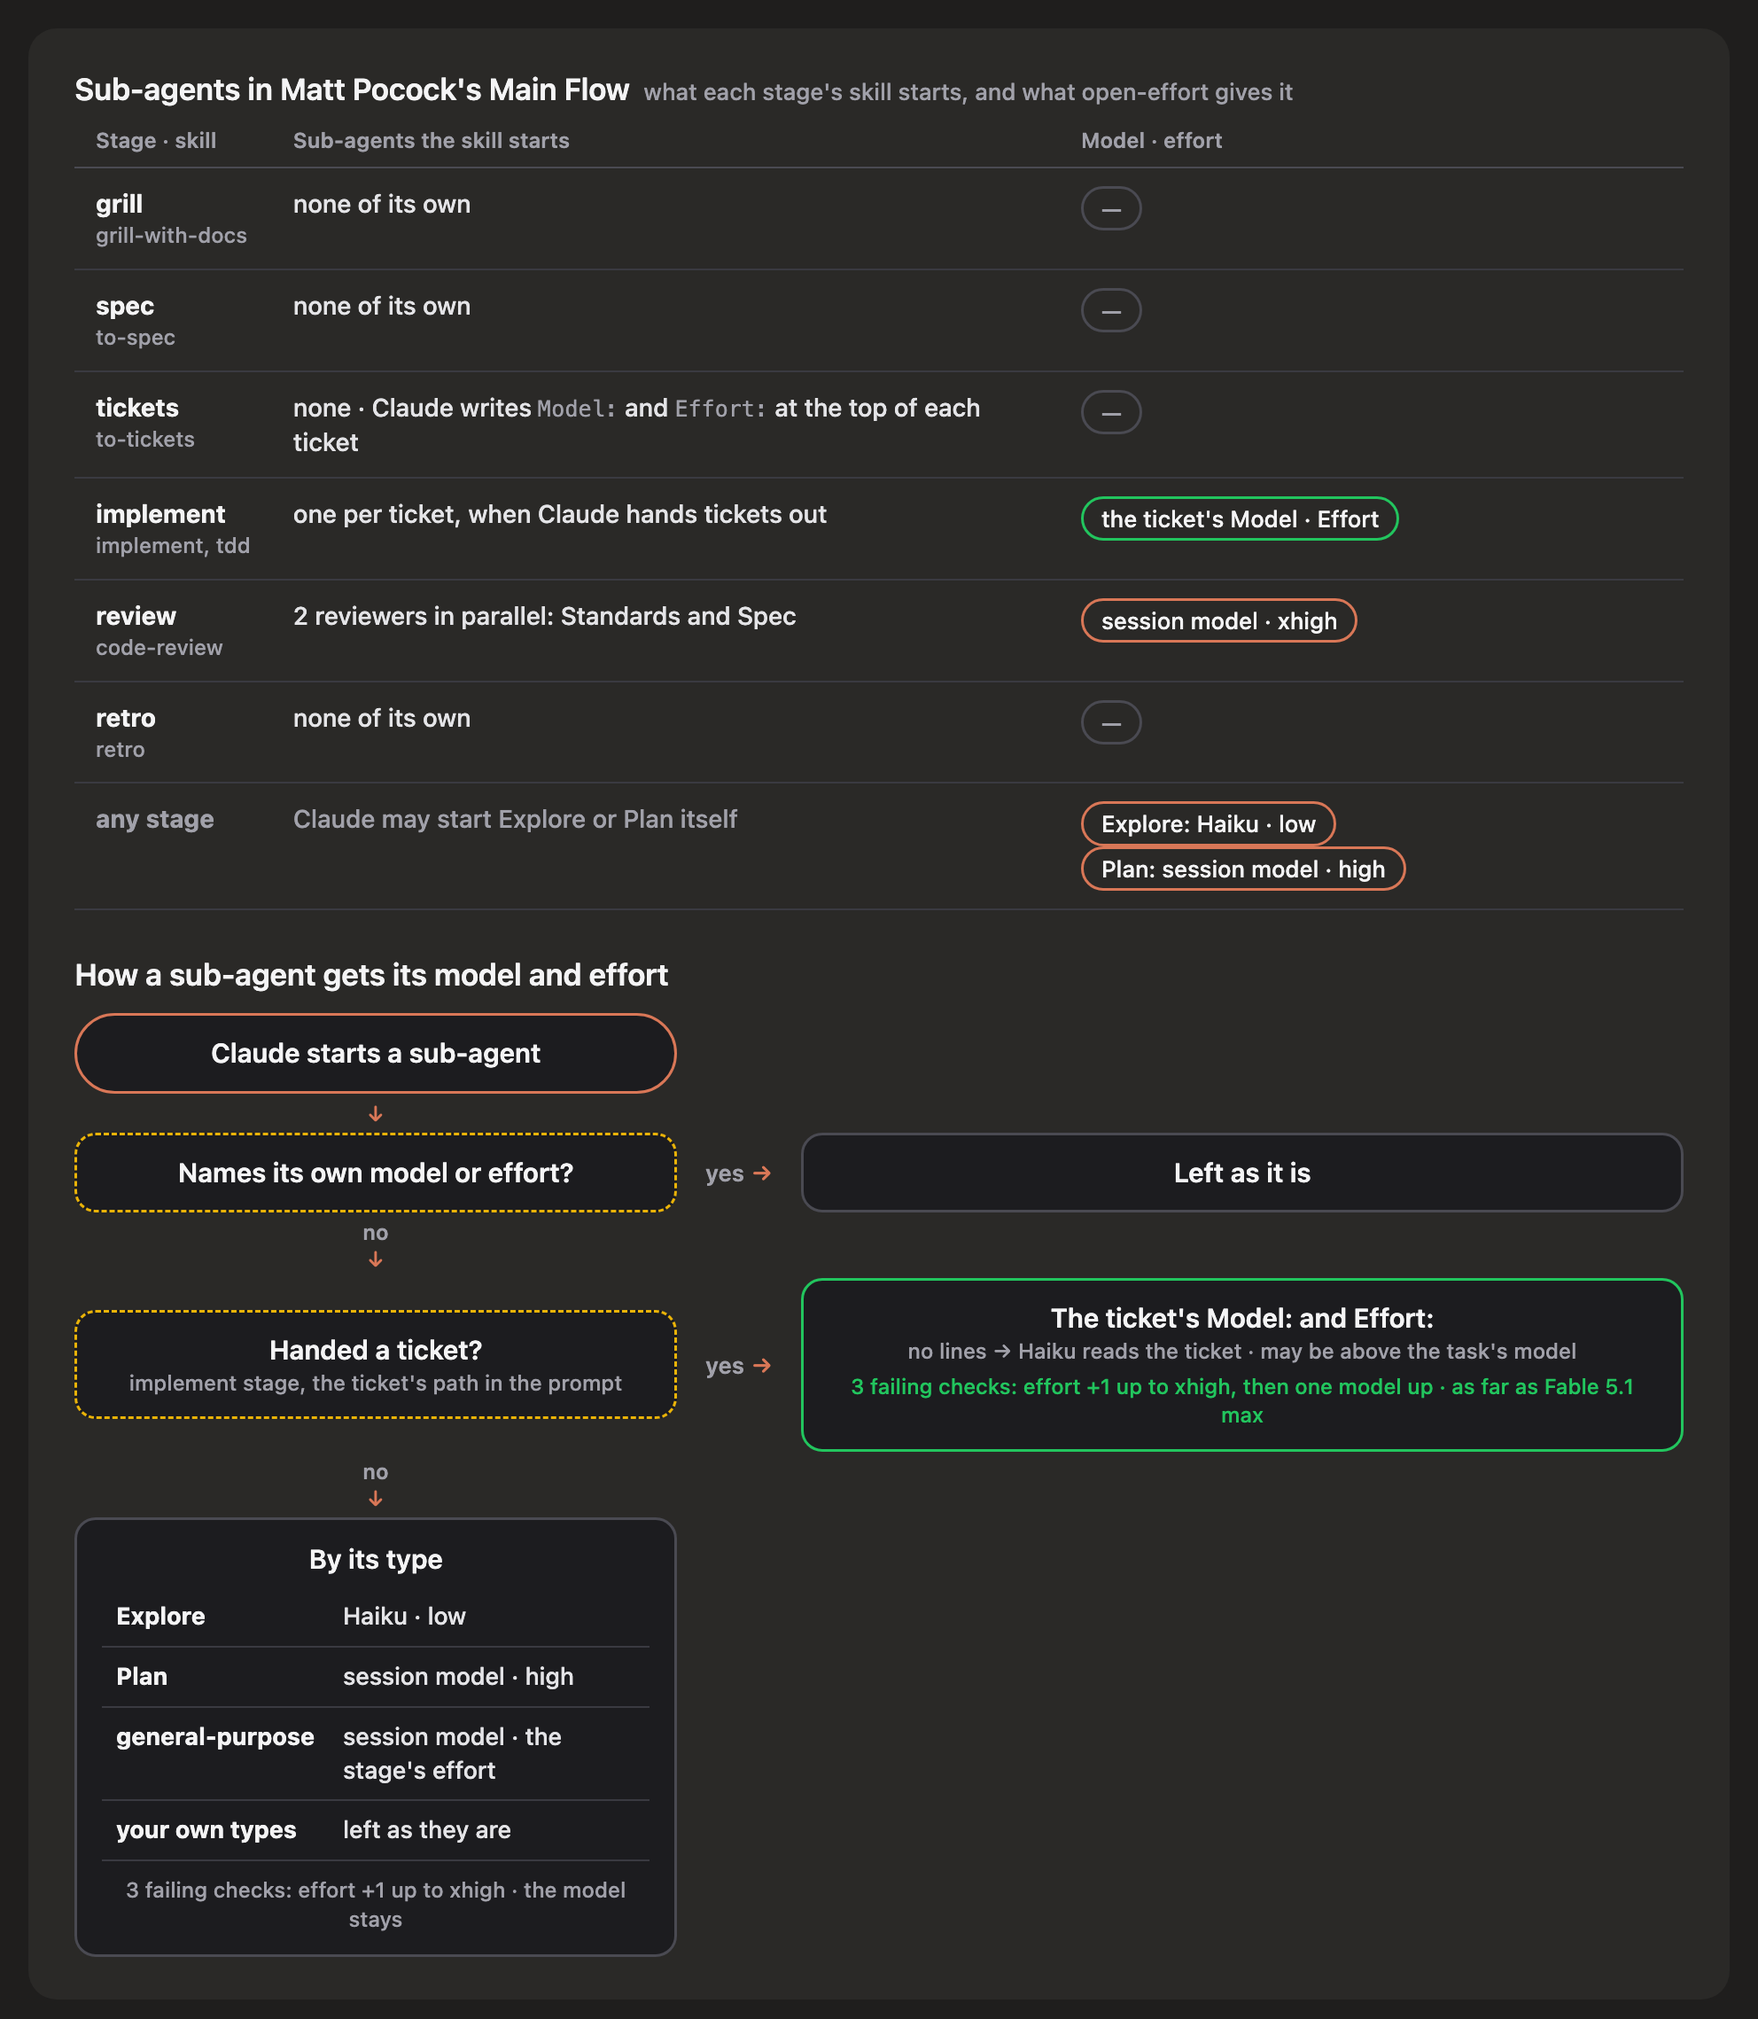
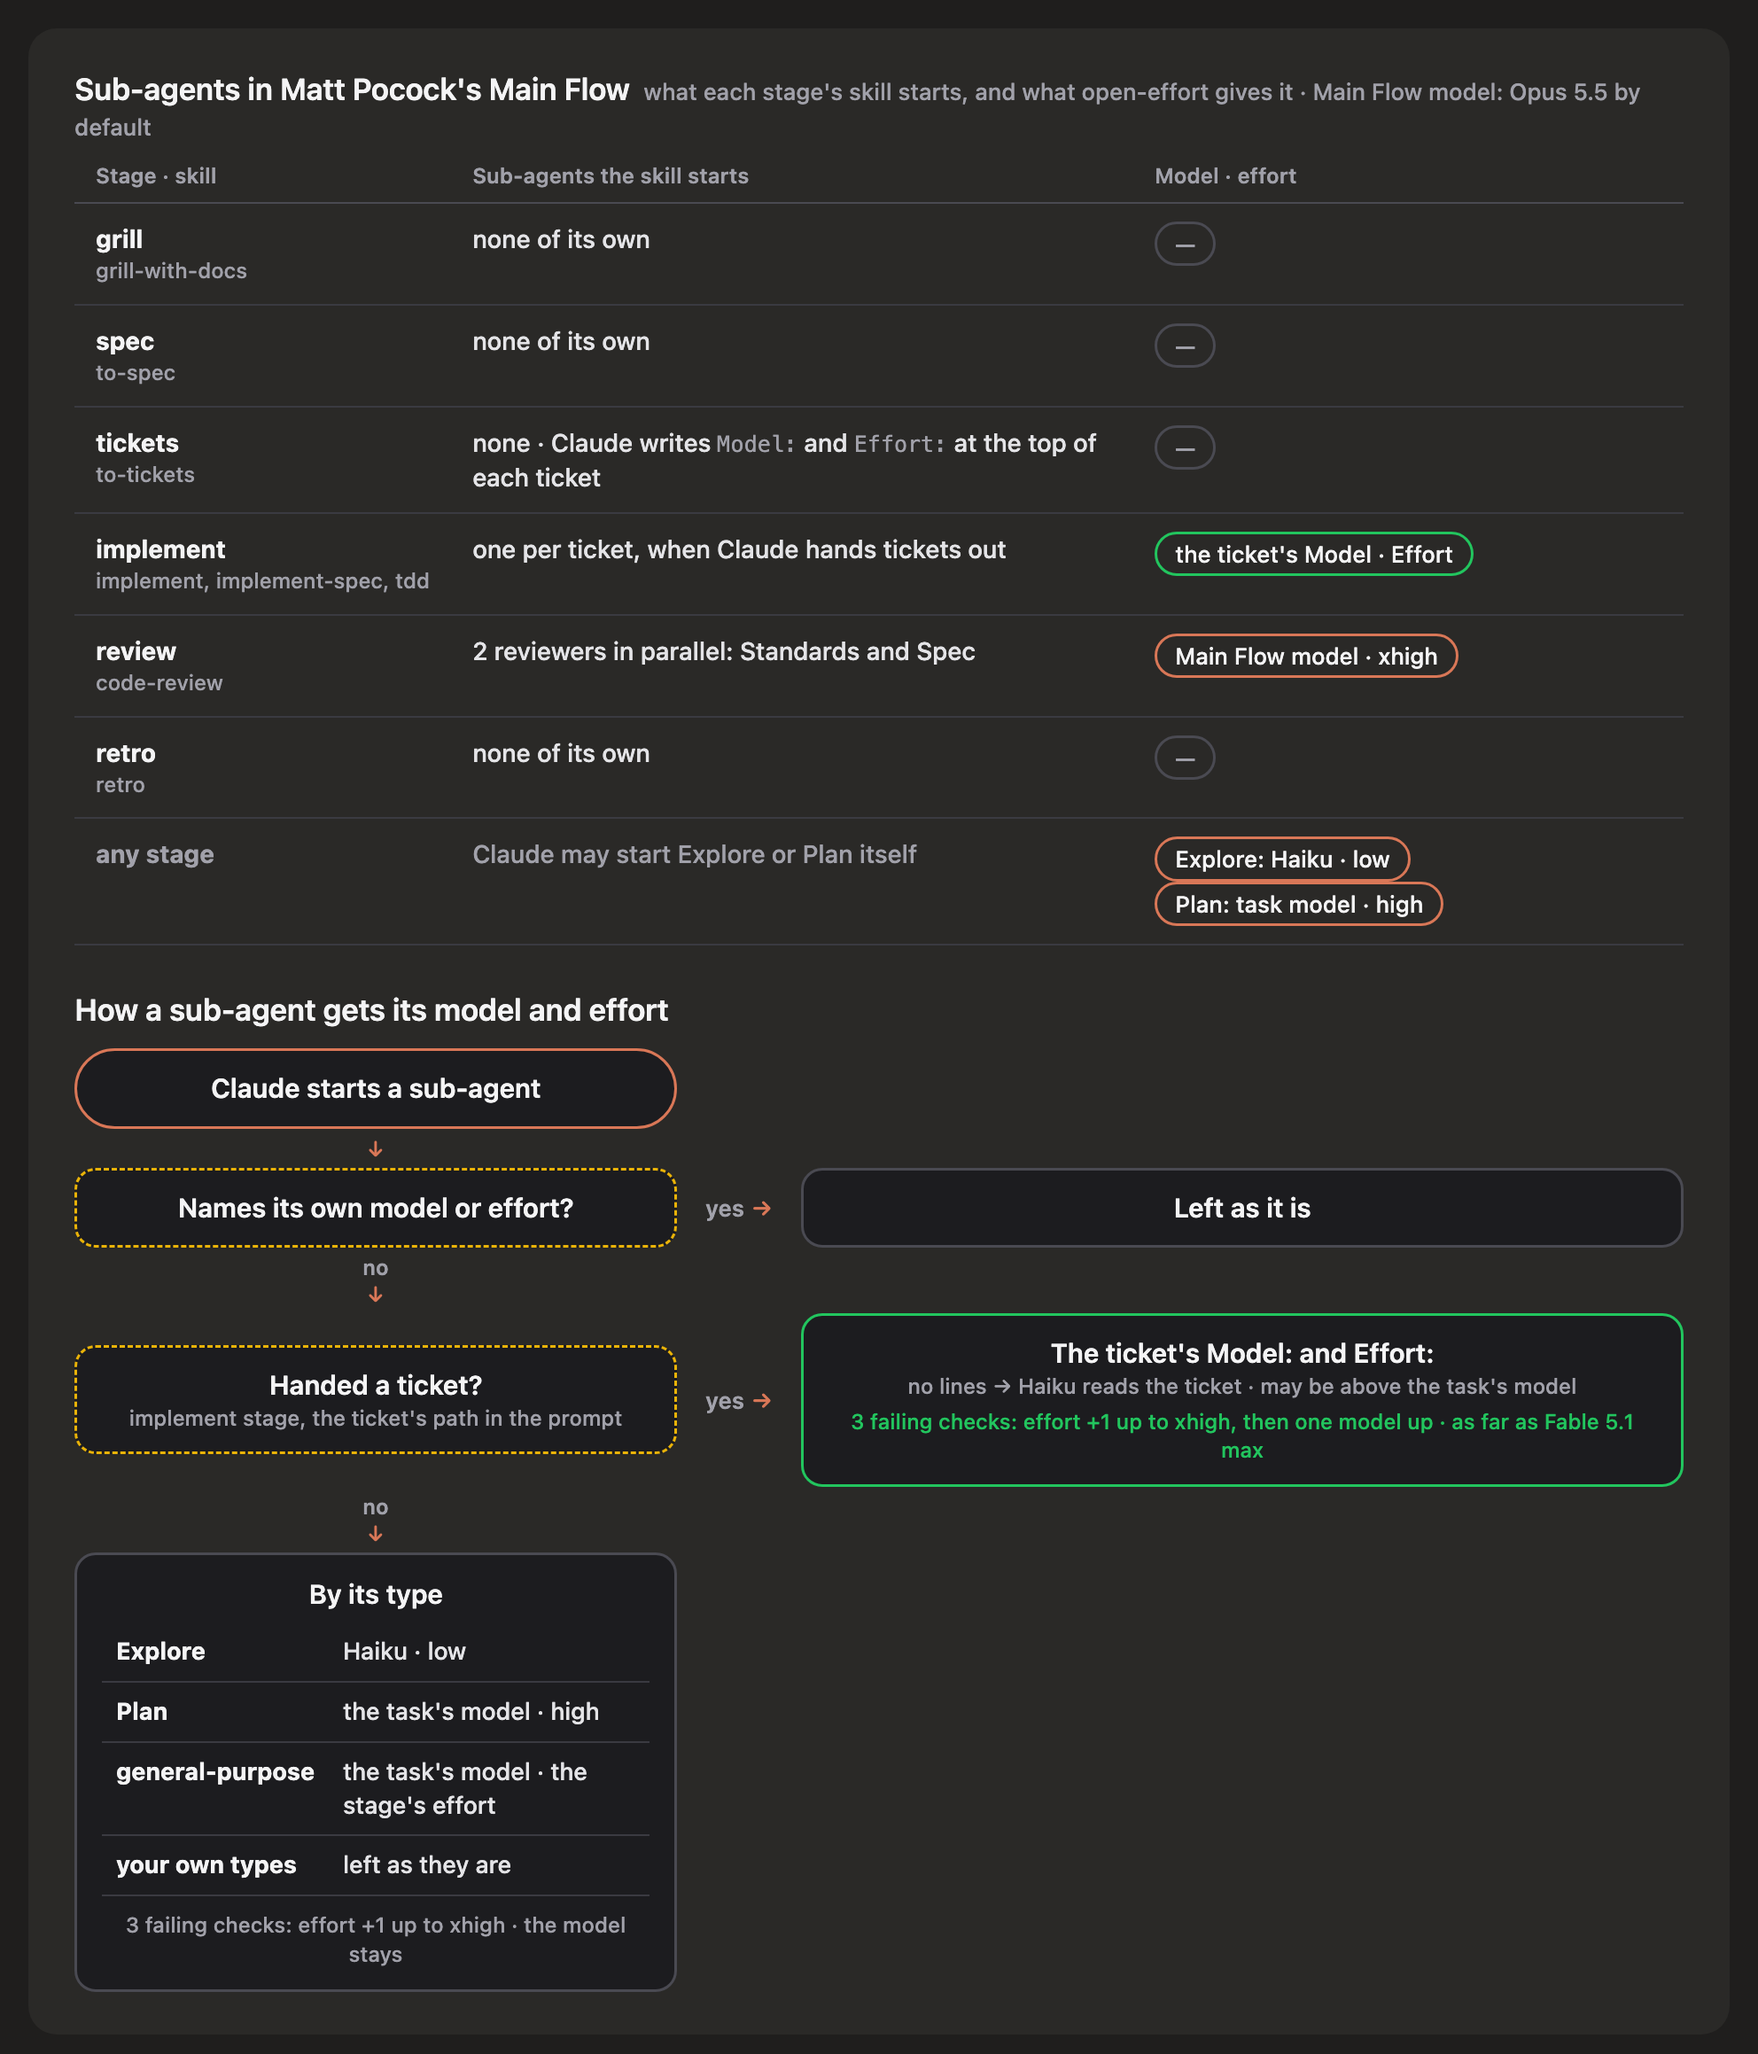
docs: sub-agents run on the task's model; implement-spec is part of implement

diff --git a/README.th.md b/README.th.md
@@ -84,10 +84,12 @@ mod จะไม่เลือก `max` ให้เอง
 #### sub-agent ใน Main Flow
 
 <p align="center">
-  <img src="docs/images/sub-agents-th.png" width="820" alt="แต่ละขั้นตอนของ Main Flow เรียก sub-agent อะไร และแต่ละตัวได้โมเดลกับ effort มาจากไหน: implement ส่ง ticket ให้ sub-agent ทำตาม Model และ Effort ของ ticket, code-review ใช้ผู้รีวิว 2 ตัวที่ xhigh บนโมเดลของ session, นอกนั้น Explore ใช้ Haiku ที่ low, Plan ใช้ high, general-purpose ใช้ effort ของขั้นตอนนั้น และแบบที่คุณสร้างเองไม่ปรับ">
+  <img src="docs/images/sub-agents-th.png" width="820" alt="แต่ละขั้นตอนของ Main Flow เรียก sub-agent อะไร และแต่ละตัวได้โมเดลกับ effort มาจากไหน: implement ส่ง ticket ให้ sub-agent ทำตาม Model และ Effort ของ ticket, code-review ใช้ผู้รีวิว 2 ตัวที่ xhigh บนโมเดลของ Main Flow, นอกนั้น Explore ใช้ Haiku ที่ low, Plan ใช้โมเดลของงานที่ high, general-purpose ใช้โมเดลของงานกับ effort ของขั้นตอนนั้น และแบบที่คุณสร้างเองไม่ปรับ">
 </p>
 
-effort ของ sub-agent จะเท่ากับ effort ของขั้นตอนที่มันทำงานอยู่ เช่น ผู้รีวิวของ code-review ใช้ `xhigh` เพราะขั้นตอน review ใช้ `xhigh` ส่วนโมเดล นอกจาก Explore ที่ใช้ Haiku เสมอ มีแค่ ticket ที่ทำให้ sub-agent ใช้โมเดลอื่นได้
+effort ของ sub-agent แบบ general-purpose จะเท่ากับ effort ของขั้นตอนที่มันทำงานอยู่ เช่น ผู้รีวิวของ code-review ใช้ `xhigh` เพราะขั้นตอน review ใช้ `xhigh`
+
+ส่วนโมเดล sub-agent แบบ Plan และ general-purpose จะใช้โมเดลเดียวกับงาน ถ้าอยู่ใน Main Flow ก็จะใช้โมเดลของ Main Flow (ค่าเริ่มต้นคือ Opus 5.5) แม้ session จะเป็น Sonnet ส่วน Explore ใช้ Haiku เสมอ และ sub-agent ที่ได้รับ ticket จะใช้โมเดลตามที่ ticket ระบุ
 
 ## Pane
 

diff --git a/README.md b/README.md
@@ -84,10 +84,10 @@ The mod never picks `max` by itself.
 #### Sub-agents in the flow
 
 <p align="center">
-  <img src="docs/images/sub-agents-en.png" width="820" alt="Which sub-agents each Main Flow stage starts, and how each gets its model and effort: implement hands a ticket to a sub-agent at the ticket's Model and Effort; code-review runs two reviewers at xhigh on the session's model; otherwise Explore runs on Haiku at low, Plan at high, general-purpose at the stage's effort, and your own types are left as they are">
+  <img src="docs/images/sub-agents-en.png" width="820" alt="Which sub-agents each Main Flow stage starts, and how each gets its model and effort: implement hands a ticket to a sub-agent at the ticket's Model and Effort; code-review runs two reviewers at xhigh on the Main Flow's model; otherwise Explore runs on Haiku at low, Plan on the task's model at high, general-purpose on the task's model at the stage's effort, and your own types are left as they are">
 </p>
 
-A sub-agent's effort follows the stage it runs in: the code-review reviewers run at `xhigh` because the review stage does. Apart from Explore, which always runs on Haiku, only a ticket can put a sub-agent on another model.
+A general-purpose sub-agent's effort follows the stage it runs in: the code-review reviewers run at `xhigh` because the review stage does. Plan and general-purpose sub-agents run on the task's model, so in the Main Flow they use its model (Opus 5.5 by default) even on a Sonnet session. Explore always runs on Haiku, and a ticket's sub-agent runs on the ticket's model.
 
 ## The pane
 
